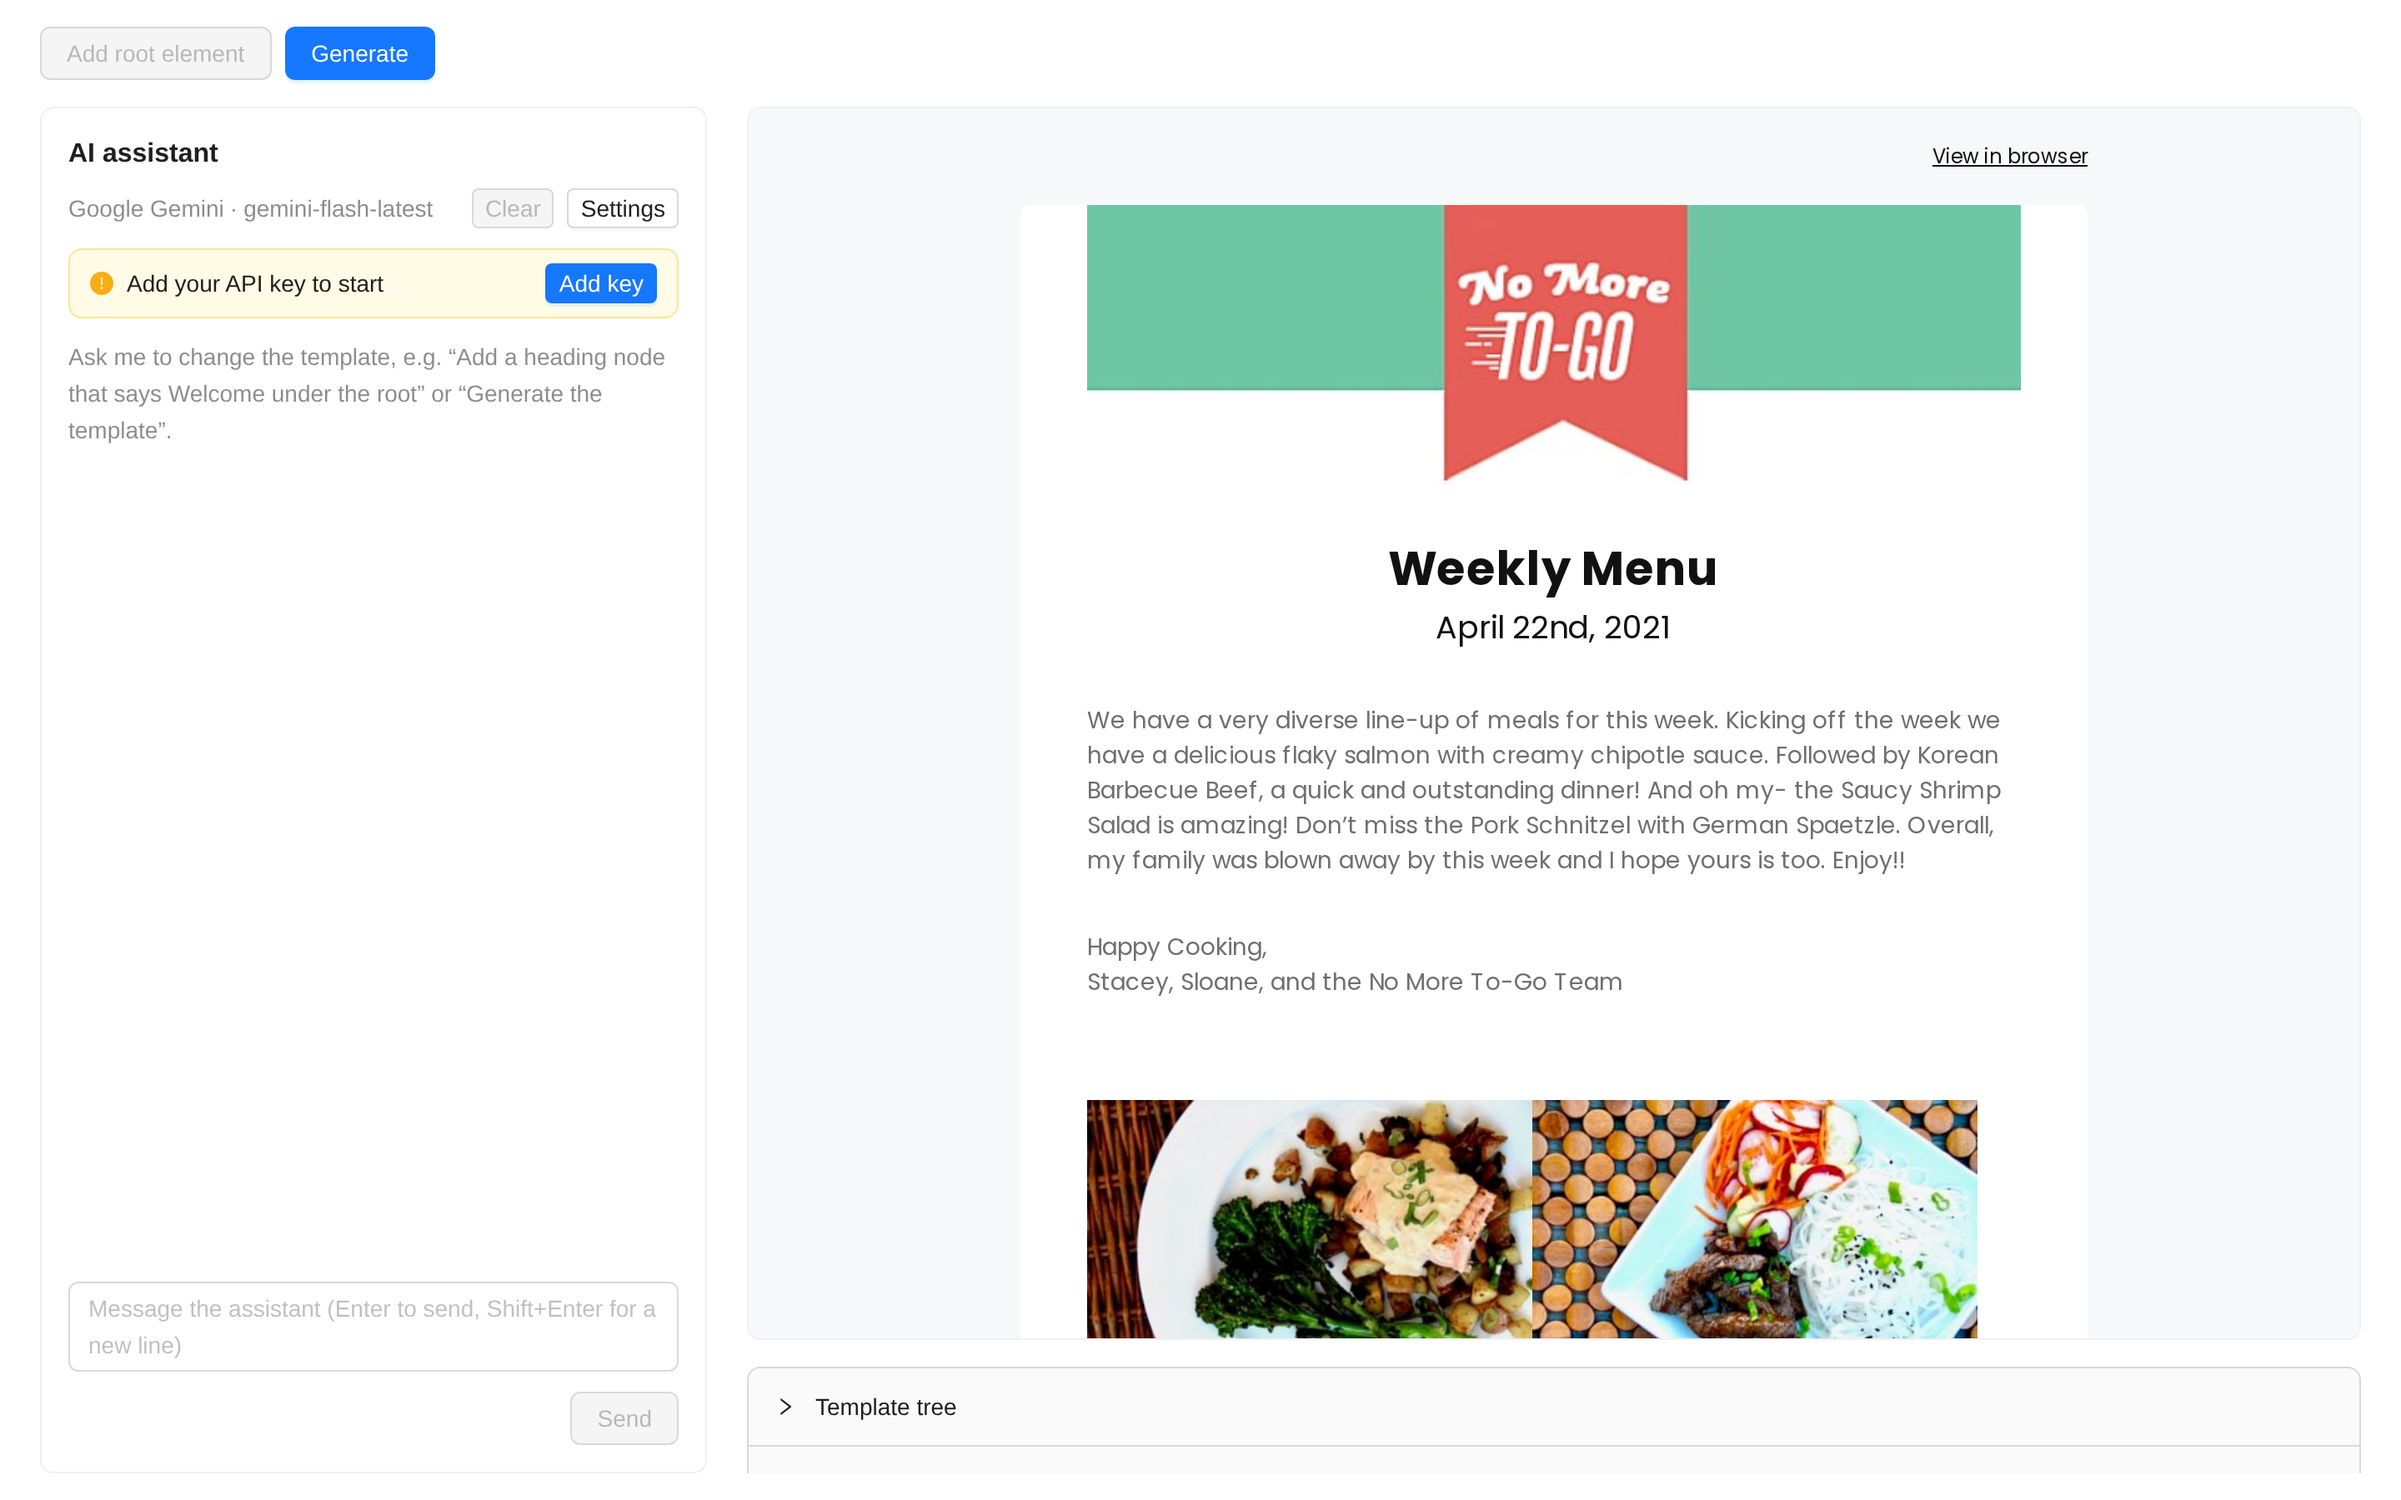
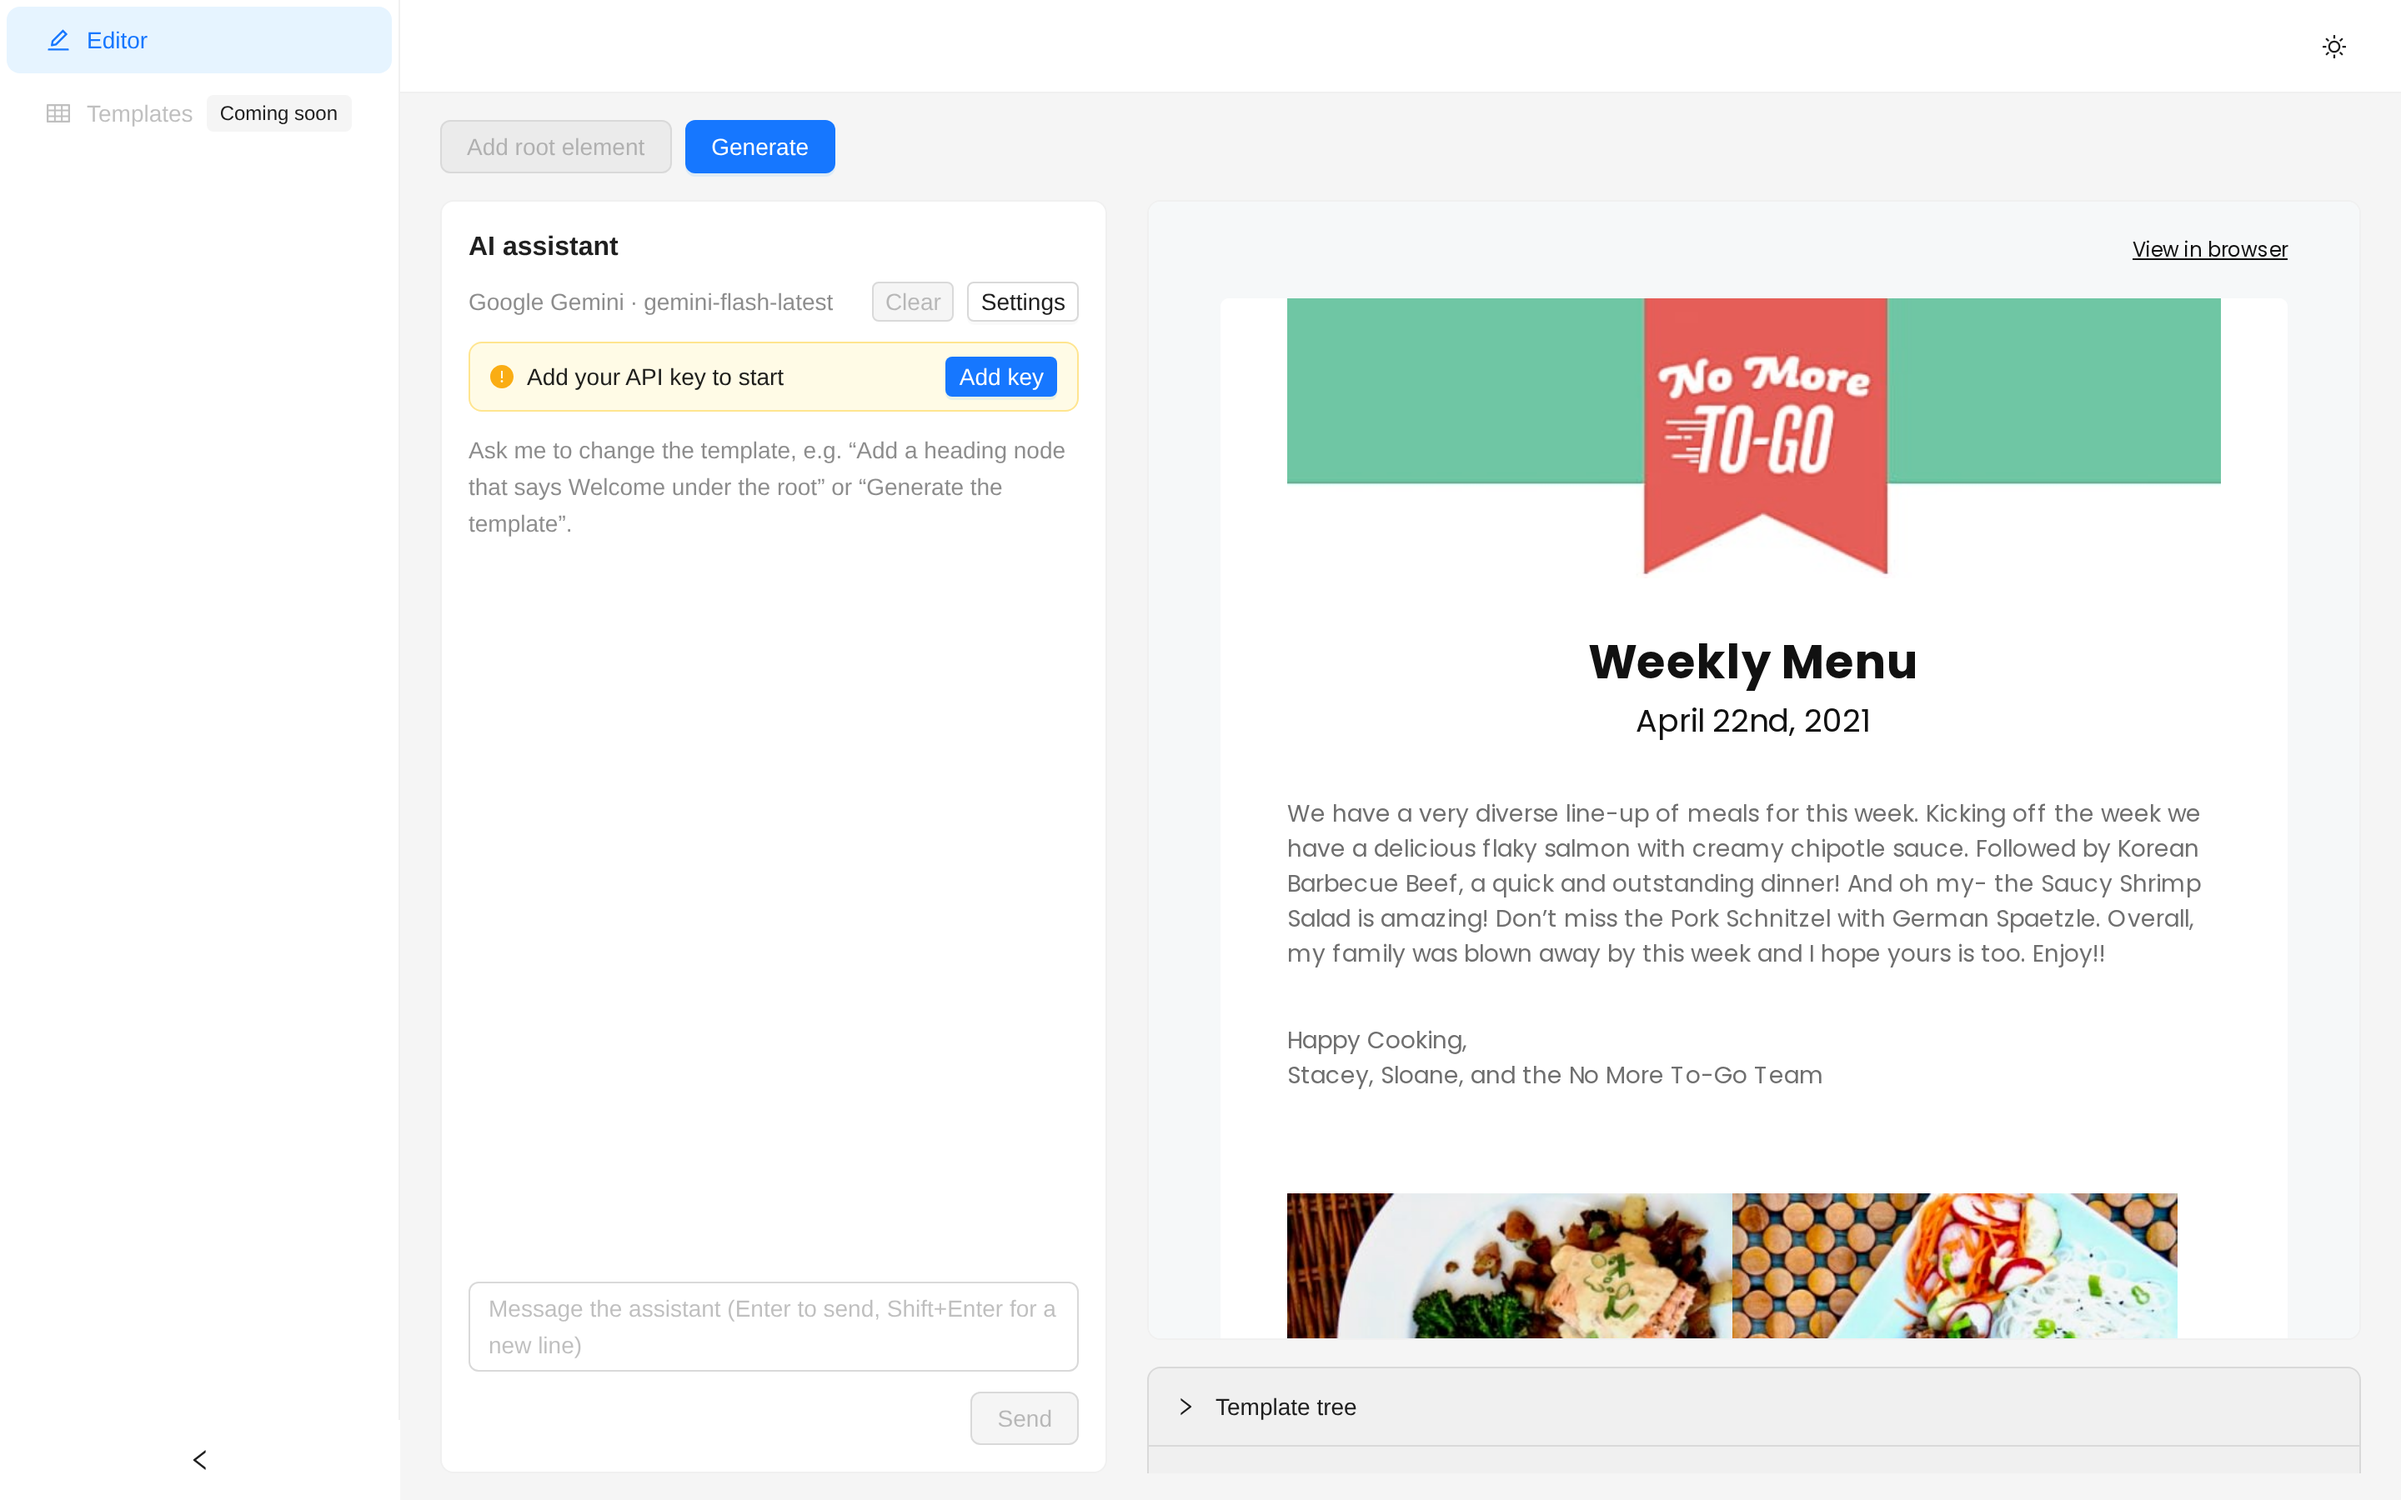
Refresh README screenshots and show the dark theme (#61)
Recapture the screenshots with the new sidebar and header, and add a
Dark theme section with the theme menu, the panels and the edit modal.

diff --git a/README.md b/README.md
@@ -4,7 +4,7 @@ A visual editor for building HTML email templates as a tree of blocks. Authors c
 
 Built with **Next.js** (App Router), **React**, **Ant Design**, and **Vitest**.
 
-![Editor: AI assistant on the left, live email preview on the right](docs/screenshots/app-overview.png)
+![Editor: navigation sidebar, AI assistant and live email preview](docs/screenshots/app-overview.png)
 
 ## Goal
 
@@ -42,9 +42,21 @@ The title is the placeholder used in the tree (`{{recipeCard}}`). The value is t
 
 ![Edit element modal](docs/screenshots/app-edit-element.png)
 
+### Dark theme
+
+The button in the top-right corner switches the theme: **System** (default, follows the OS), **Light** or **Dark**. The choice is saved in a cookie, so the page renders in the right theme on the first paint. The email preview keeps the email's own colors: it shows what the recipient will see.
+
+![Dark theme with the theme menu open](docs/screenshots/app-theme-menu-dark.png)
+
+The tree, the Elements library and the modals follow the theme too.
+
+![Template tree and Elements library in the dark theme](docs/screenshots/app-tree-and-elements-dark.png)
+
+![Edit element modal in the dark theme](docs/screenshots/app-edit-element-dark.png)
+
 ### Regenerating the screenshots
 
-Start the backend on `:9000` with the sample `db.json` and run `npm run dev`. Then capture the editor at 1440×900 (device scale 2): the overview, the preview scrolled to the first recipe row, both panels expanded, and the **edit** modal of `{{recipeCard}}`. Hide the Next.js dev badge before you capture.
+Start the backend on `:9000` with the sample `db.json` and run `npm run dev`. Then capture the editor at 1440×900 (device scale 2) with the `theme` cookie set to `light`: the overview, the preview scrolled to the first recipe row, both panels expanded (capture the panels only), and the **edit** modal of `{{recipeCard}}`. Repeat with `theme=dark` for the theme menu open, the panels and the edit modal (`-dark` suffix). Hide the Next.js dev badge before you capture.
 
 ## How it works
 
